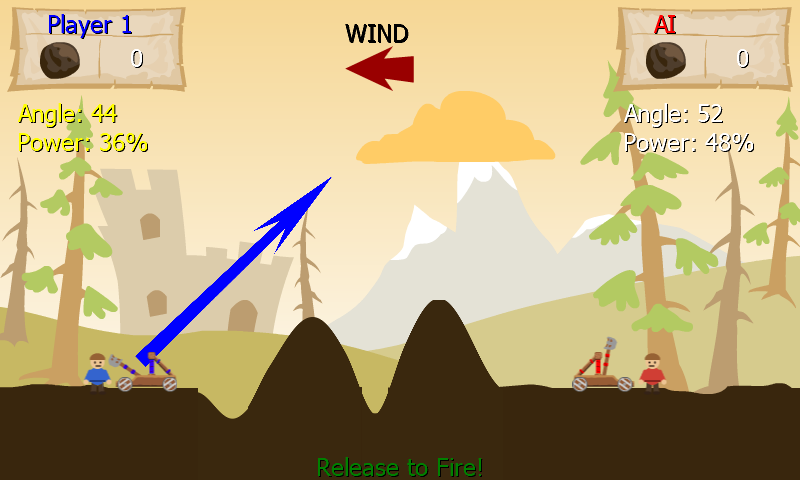
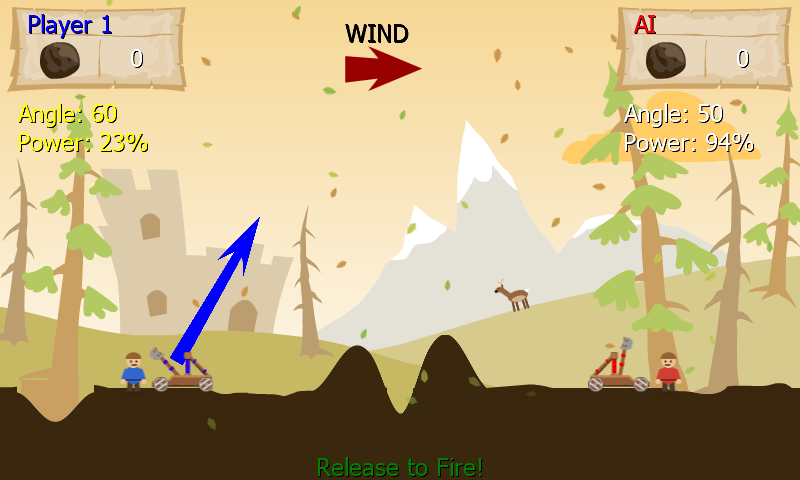
[CatapultWars] Retaken screenshots, version 1.1 and winter devlog (Markdown and HTML)

diff --git a/CatapultWars/itch/devlog-winter.html b/CatapultWars/itch/devlog-winter.html
@@ -1,0 +1,37 @@
+<!--
+  itch.io devlog post. Title field: Catapult Wars: snow, a reindeer and leaves on the wind
+  Paste everything below this comment into the post body (use the HTML view, or paste it into the
+  rich editor). It uses plain tags only, so itch's own theme styles it. Generated from devlog-winter.md.
+-->
+<p>Halloween was fun, so there's a new look for December, and a few things that make every look feel more alive.</p>
+<h2>Winter is coming (1 to 31 December)</h2>
+<p>From 1 December the battlefield turns wintry on its own. Nothing to switch on.</p>
+<ul>
+  <li><strong>Snow everywhere.</strong> A dusk sky, a big pale moon, frosted hills and snow lying on the ground.</li>
+  <li><strong>Snowballs</strong> instead of rocks. They puff into white powder when they land.</li>
+  <li><strong>Craters dig through the snow.</strong> Every hit scoops the snow away and shows the brown earth underneath, with a little rim of snow left round the edge.</li>
+  <li><strong>Santa hats</strong> for both crews, and <strong>coloured lights</strong> twinkling on the trees.</li>
+  <li><strong>A red-nosed reindeer</strong> on the far hillside. It keeps an eye on the battle, and stoops to graze now and then.</li>
+</ul>
+<p>If winter isn't your thing, the <strong>Seasonal Theme</strong> switch on the main menu turns it off. Each player sees their own look, so one of you can play in the snow while the other keeps the classic view.</p>
+<h2>Wind you can see</h2>
+<ul>
+  <li><strong>Things blow on the wind in every look</strong>, in the same direction and with the same strength that pushes your shot: <strong>leaves</strong> in the classic look, <strong>embers</strong> in Halloween and <strong>snow</strong> in winter. Check which way they're heading before you pull back.</li>
+  <li>It's all drawn without allocating anything while you play, so it shouldn't make the game stutter.</li>
+</ul>
+<h2>The reindeer joined every look</h2>
+<ul>
+  <li>The reindeer isn't only for Christmas. It's on the far hill in the classic look (a plain one), and in Halloween it's haunted, with <strong>flaming antlers</strong>.</li>
+</ul>
+<h2>Fixed</h2>
+<ul>
+  <li><strong>"1/15" in the join list.</strong> A game only ever has two players, but the list made it look like fifteen could join. It now says <strong>1/2</strong>, and a third machine can no longer slip into the lobby.</li>
+  <li><strong>The window and the app are called "Catapult Wars"</strong> now, not the name of the project.</li>
+</ul>
+<h2>Also</h2>
+<ul>
+  <li>Catapults now stay on the victory screen, and long player names shrink to fit their box instead of running off the edge.</li>
+</ul>
+<h2>Download</h2>
+<p>Windows, macOS (installer) and Linux builds are on the page. For LAN games, both players should be on this version.</p>
+<p>Thanks for playing, and for all the feedback. Wrap up warm.</p>

diff --git a/CatapultWars/itch/devlog-winter.md b/CatapultWars/itch/devlog-winter.md
@@ -1,0 +1,39 @@
+# Catapult Wars: snow, a reindeer and leaves on the wind
+
+Halloween was fun, so there's a new look for December, and a few things that make every look feel more alive.
+
+## Winter is coming (1 to 31 December)
+
+From 1 December the battlefield turns wintry on its own. Nothing to switch on.
+
+- **Snow everywhere.** A dusk sky, a big pale moon, frosted hills and snow lying on the ground.
+- **Snowballs** instead of rocks. They puff into white powder when they land.
+- **Craters dig through the snow.** Every hit scoops the snow away and shows the brown earth underneath, with a little rim of snow left round the edge.
+- **Santa hats** for both crews, and **coloured lights** twinkling on the trees.
+- **A red-nosed reindeer** on the far hillside. It keeps an eye on the battle, and stoops to graze now and then.
+
+If winter isn't your thing, the **Seasonal Theme** switch on the main menu turns it off. Each player sees their own look, so one of you can play in the snow while the other keeps the classic view.
+
+## Wind you can see
+
+- **Things blow on the wind in every look**, in the same direction and with the same strength that pushes your shot: **leaves** in the classic look, **embers** in Halloween and **snow** in winter. Check which way they're heading before you pull back.
+- It's all drawn without allocating anything while you play, so it shouldn't make the game stutter.
+
+## The reindeer joined every look
+
+- The reindeer isn't only for Christmas. It's on the far hill in the classic look (a plain one), and in Halloween it's haunted, with **flaming antlers**.
+
+## Fixed
+
+- **"1/15" in the join list.** A game only ever has two players, but the list made it look like fifteen could join. It now says **1/2**, and a third machine can no longer slip into the lobby.
+- **The window and the app are called "Catapult Wars"** now, not the name of the project.
+
+## Also
+
+- Catapults now stay on the victory screen, and long player names shrink to fit their box instead of running off the edge.
+
+## Download
+
+Windows, macOS (installer) and Linux builds are on the page. For LAN games, both players should be on this version.
+
+Thanks for playing, and for all the feedback. Wrap up warm.
